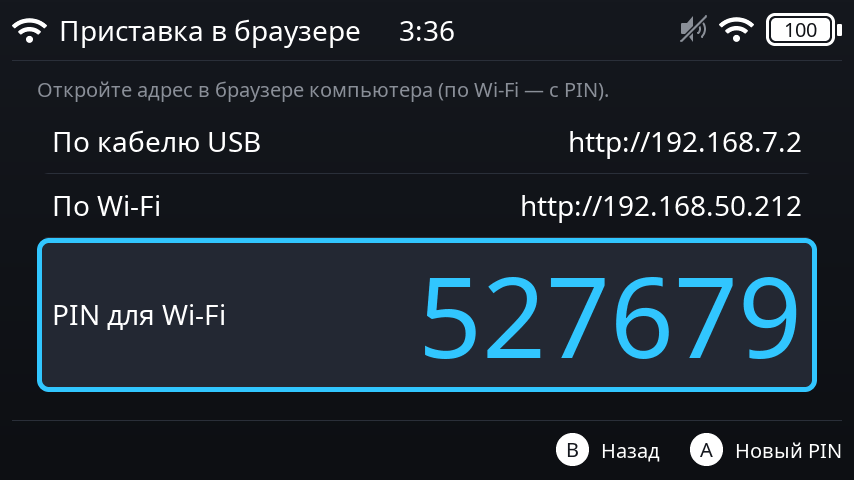
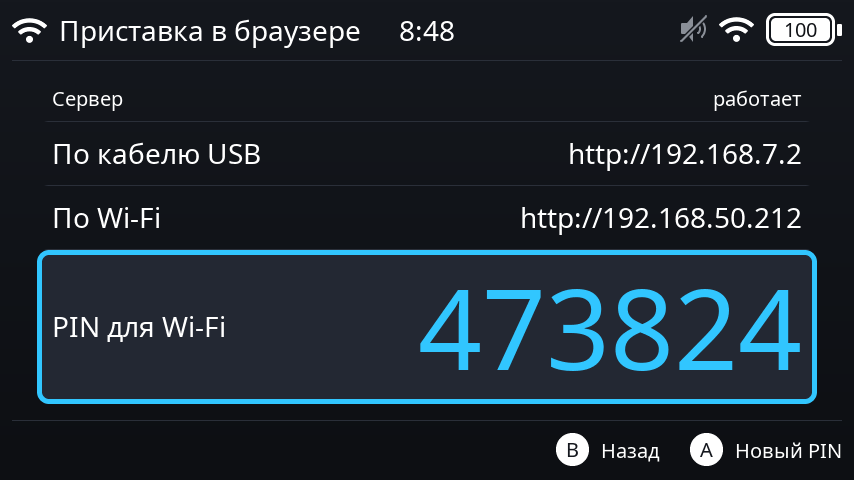
user guide: the device's site setting (Always/Automatic/Off) and the Server row, deleting a game on the site, the Workshop as a page of its own with My edits and the search in Fine, wrong PINs counted per client address; screens

diff --git a/docs/user-guide/chapters/40-web.md b/docs/user-guide/chapters/40-web.md
@@ -44,9 +44,10 @@ http://192.168.7.2
 по кабелю у неё сеть не появляется.
 
 1. На приставке откройте Настройки → Система → «Приставка в браузере».
-2. На экране два адреса: «По кабелю USB» (`http://192.168.7.2`) и «По Wi-Fi»
-   (`http://<адрес>`). Если Wi-Fi не подключён, у строки написано «не подключено».
-   Под ними «PIN для Wi-Fi»: шесть цифр.
+2. На экране сверху строка «Сервер»: «работает» или другое состояние (см.
+   [«Сайт приставки»](#сайт-приставки-когда-он-включён)). Ниже два адреса:
+   «По кабелю USB» (`http://192.168.7.2`) и «По Wi-Fi» (`http://<адрес>`). Если Wi-Fi не
+   подключён, у строки написано «не подключено». Под ними «PIN для Wi-Fi»: шесть цифр.
 3. Откройте адрес «По Wi-Fi» в браузере. Страница «Приставка в браузере по Wi-Fi»
    попросит PIN. Введите шесть цифр с экрана приставки и нажмите «Войти».
 4. Дальше сайт работает как по кабелю.
@@ -54,9 +55,13 @@ http://192.168.7.2
 Что нужно знать о PIN:
 
 - Вход действует сутки, и только в том браузере, где вы ввели PIN. После перезапуска
-  приставки или сервера сайта PIN спросят заново.
-- После пяти неверных попыток подряд минуту ничего не принимается, даже верный PIN.
-  Подождите минуту.
+  приставки или сервера сайта PIN спросят заново. Сервер останавливается сам, когда он
+  не нужен (см. [«Сайт приставки»](#сайт-приставки-когда-он-включён)): тогда входы
+  тоже забываются.
+- Неверные PIN считаются отдельно для каждого компьютера или телефона (по его адресу в
+  сети). После пяти неверных попыток подряд с одного адреса этому адресу минуту ничего не
+  принимается, даже верный PIN. Подождите минуту. Чужие ошибки с другого устройства ваш
+  вход не закрывают.
 - Кнопка A на этом экране («Новый PIN») делает другой PIN. Все прежние входы по Wi-Fi
   закрываются, браузеры спросят новый PIN. Так делайте, если PIN узнал кто-то лишний.
 - По кабелю PIN не нужен.
@@ -67,19 +72,51 @@ http://192.168.7.2
 | «не подключено» у адреса Wi-Fi | адаптера нет или нет сети | подключите Wi-Fi в настройках приставки и вернитесь на экран |
 | страница просит PIN | вы зашли по Wi-Fi | введите PIN с экрана приставки |
 | «Неверный PIN. Осталось попыток: …» | PIN введён неверно | сверьте цифры с экраном |
-| «Слишком много попыток: подождите … с.» | пять ошибок подряд | подождите минуту |
+| «Слишком много попыток: подождите … с.» | пять ошибок подряд с вашего устройства | подождите минуту |
 | «PIN ещё не задан…» | PIN создаётся при первом открытии экрана | откройте на приставке Настройки → Система → «Приставка в браузере» |
 | «Новый PIN: браузеры по Wi-Fi спросят его заново» | вы нажали A | введите новый PIN |
 | «Не удалось записать PIN» | PIN не записался в память приставки | нажмите A ещё раз |
-| страница снова просит PIN | прошли сутки, PIN сменён или сервер перезапущен | введите PIN с экрана |
+| страница снова просит PIN | прошли сутки, PIN сменён или сервер останавливался (нет кабеля и Wi-Fi, режим «Выключен») | введите PIN с экрана |
 
 Адрес Wi-Fi может смениться, например после перезапуска роутера. Он обновляется на
 экране сам; откройте новый адрес.
 
+## Сайт приставки: когда он включён
+
+![Настройки → Система → «Сайт приставки»](img/settings-web-mode.png)
+
+Сайт работает, пока на приставке запущен его сервер. Когда он запущен, решает строка
+Настройки → Система → «Сайт приставки». У неё три значения. Меняйте их кнопкой A.
+
+| Значение | Что значит |
+|---|---|
+| «Автоматически» (по умолчанию) | сервер работает, пока приставка подключена к компьютеру кабелем USB-C или к Wi-Fi |
+| «Всегда» | сервер работает с включения приставки, даже если ни кабеля, ни Wi-Fi нет |
+| «Выключен» | сервера нет, сайт не открывается |
+
+В режиме «Автоматически» сервер запускается сам, как только появляется кабель с
+компьютером или Wi-Fi. Остановится он через 10 секунд после того, как пропали оба. Если
+кабель вынули и тут же вставили, сервер не остановится. Пока с сайта идёт установка игры
+или обновление системы, сервер не останавливается: сначала дождётся конца.
+
+Что видно на экране «Приставка в браузере» в строке «Сервер»:
+
+| Что написано | Что значит | Что делать |
+|---|---|---|
+| «работает» | сайт открывается | ничего |
+| «ждёт подключения» | режим «Автоматически», кабеля и Wi-Fi нет | вставьте кабель или подключите Wi-Fi |
+| «запускается» | режим «Всегда», сервер только стартует | подождите несколько секунд |
+| «выключен в настройках» | стоит «Выключен» | выберите «Автоматически» или «Всегда» |
+
+Когда сервер останавливается (выключили его, или пропали кабель и Wi-Fi), все входы по
+PIN забываются: при следующем запуске браузер спросит PIN заново. Сам PIN остаётся тем
+же, пока вы не нажмёте «Новый PIN».
+
 ## Страницы сайта
 
-Наверху страницы меню: «Состояние», «Установка игр», «Игры и журналы», «Отчёты»,
-«Обновление системы».
+Наверху страницы меню: «Состояние», «Установка игр», «Игры и журналы», «Мастерская»,
+«Сохранения», «Отчёты», «Обновление системы». О «Мастерской» написано в главе
+[«Мастерская»](50-workshop.md), о «Сохранениях» в главе [«Сохранения»](45-saves.md).
 
 ## Состояние
 
@@ -150,6 +187,33 @@ USB-диск». Если карты нет, написано «не вставл
 
 Кнопка «отчёт» в строке игры собирает отчёт об этой игре.
 
+### Удалить игру
+
+![Игры и журналы: кнопка «удалить» в строке игры](img/web-games-delete.png)
+
+В строке игры, которая лежит на карте игр, есть красная кнопка «удалить». У встроенных
+игр (Герои III, Half-Life, DOOM) её нет.
+
+1. Нажмите «удалить» у нужной игры.
+2. Браузер спросит: «Удалить игру «…» с карты игр (/games/…, размер)? Сохранения
+   останутся в памяти приставки и вернутся, если поставить игру снова. Правки Мастерской
+   останутся в /games/recipes.» Подтвердите.
+3. Над таблицей появятся шаги и проценты. Большая игра удаляется до нескольких десятков
+   секунд. Когда всё готово, написано: «Игра «…» удалена с карты». Плитка с главного
+   экрана пропадёт сама.
+
+Удаляется только папка игры на карте. Сохранения в памяти приставки и ваши правки
+Мастерской остаются: если поставить игру снова, всё вернётся. То же можно сделать на
+приставке: Y на плитке → «Удалить игру».
+
+| Что вижу | Что значит | Что делать |
+|---|---|---|
+| «Игра идёт: сначала выйдите из неё.» | игра сейчас запущена | выйдите из игры |
+| «Приставка сейчас ставит, удаляет или исправляет игру: дождитесь, пока это закончится.» | идёт установка, удаление или лечение игры | дождитесь конца и повторите |
+| «Сейчас делается или восстанавливается копия сохранений: дождитесь, пока это закончится.» | идёт копия сохранений | дождитесь конца и повторите |
+| «Уже идёт другое задание (установка, обновление или удаление), дождитесь его.» | сайт занят другим делом | дождитесь конца и повторите |
+| «Игра не удалена: …» или «Игра удалена не до конца: …» | карты нет, она отдана компьютеру как «USB-диск» или во время удаления случилась ошибка | верните карту (B в режиме «USB-диск») и повторите; причина написана в скобках |
+
 ## Отчёты
 
 Нажмите «Сделать отчёт»: через несколько секунд появится «Готово: …», и файл попадёт в
@@ -187,6 +251,7 @@ USB-диск». Если карты нет, написано «не вставл
 | браузер пишет, что сайт недоступен | проверьте, что кабель вставлен в порт USB-C приставки (не в другой), а приставка включена и показывает главный экран; подождите полминуты после подключения |
 | не открывается и всё в порядке | проверьте, что адрес начинается с `http://`, а не `https://` |
 | в адресе всё верно, но на компьютере нет новой сети | у Windows 10 нет драйвера; откройте сайт по Wi-Fi или используйте «USB-диск» |
+| сайт не открывается, на экране «Приставка в браузере» «выключен в настройках» или «ждёт подключения» | сервер не запущен | см. раздел [«Сайт приставки»](#сайт-приставки-когда-он-включён) |
 | две приставки на одном компьютере | у первой `192.168.7.2`, у второй `192.168.8.2` |
 | «Приставка не отвечает. Проверьте кабель USB.» | кабель отошёл или приставка выключилась; вставьте кабель и обновите страницу |
 | при загрузке сообщение об ошибке, файлы не пишутся | карта не вставлена или отдана компьютеру как «USB-диск»; верните её, нажав B на приставке |

diff --git a/docs/user-guide/chapters/50-workshop.md b/docs/user-guide/chapters/50-workshop.md
@@ -10,12 +10,29 @@
 
 ## Как открыть
 
-«Игры и журналы» → в строке игры кнопка «мастерская». У игр, встроенных в систему
-(Герои III, Half-Life, DOOM), кнопка называется «проверка»: у них нет рецепта, который
-можно править.
+В меню сайта выберите «Мастерская».
 
-Наверху страницы название игры и строка: какая это игра, откуда рецепт и есть ли правки
-(«правок нет» или путь к файлу правок).
+![Мастерская: список игр](img/web-workshop.png)
+
+Откроется список всех игр на карте. Для каждой видно:
+
+| Столбец | Что в нём |
+|---|---|
+| Игра | название и папка (`/games/<папка>`); щелчок по строке открывает игру |
+| Рецепт | «Windows» (рецепт `wine.ini`), «своя программа» (настройки `game.ini`) или «встроенная» |
+| Правки | «нет», «есть, N ключей» (сколько настроек вы поменяли), «не читаются» (файл правок повреждён: его надо сбросить) или «—» у встроенных игр |
+| Последний запуск | дата и время |
+| (без названия) | отметка «идёт сейчас», если игра запущена |
+
+Над таблицей поле «Поиск по названию или папке»: впишите часть названия, и останутся
+только подходящие игры. Если ничего нет, написано «Ничего не нашлось.»
+
+У игр, встроенных в систему (Герои III, Half-Life, DOOM), нет рецепта, который можно
+править: у них только вкладка «Проверка».
+
+Нажмите на игру. Наверху страницы ссылка «← Мастерская» (назад к списку), название игры
+и строка: какая это игра, откуда рецепт и есть ли правки («правок нет» или путь к файлу
+правок).
 
 ## Рецепт и правки
 
@@ -48,6 +65,25 @@
 3. Приставка спросит: «Сбросить правки Мастерской для игры … ? Папка … будет удалена:
    игра снова пойдёт по своему рецепту.» Подтвердите кнопкой «Сбросить».
 4. Появится «Правки Мастерской сброшены». Пункт исчезнет, игра пойдёт по рецепту.
+
+### Мои правки
+
+![Панель «Мои правки»](img/web-workshop-edits.png)
+
+Под названием игры панель «Мои правки» перечисляет всё, что вы поменяли. Если ничего,
+написано «правок нет». Каждая строка — одна настройка:
+
+| Что вижу | Что это значит | Что делать |
+|---|---|---|
+| `mode` = 640x480 | вы задали своё значение | щелчок по имени откроет поле; крестик вернёт как в рецепте |
+| «убран из рецепта» | вы отметили «убрать из рецепта» | крестик вернёт настройку |
+| «вернётся как в рецепте» | вы нажали крестик | нажмите «Сохранить» |
+| «(не сохранено)», строка цветная | правка есть только на странице, на карте её нет | нажмите «Сохранить» |
+
+Крестик у строки убирает вашу правку, и игра снова пойдёт по рецепту: как в поле «как в
+рецепте». Файл на карте изменится, когда вы нажмёте «Сохранить». Щелчок по имени
+настройки открывает нужную вкладку («Управление», «Экран» или «Тонкое») и ставит курсор в
+поле. Так не надо искать настройку по страницам.
 
 Рядом с каждым полем видны три значения:
 
@@ -129,11 +165,26 @@
 
 ### Тонкое
 
+![Тонкое: поиск и разделы](img/web-workshop-fine.png)
+
 Остальные настройки: переменные для Wine и эмулятора (`env`), библиотеки (`dlls`),
 значения реестра (`reg`), папки, куда игре разрешено писать (`writable`), сохранения
 (`saves`), язык (`locale`), параметры запуска (`args`) и прочее. У каждого поля есть
 подсказка по-русски. Если в рецепте есть ключи, которых страница не знает, они тоже
 видны как текст.
+
+Настроек много, поэтому вверху вкладки есть помощники:
+
+- **Поиск.** Поле «Поиск по ключу, разделу, подсказке». Впишите слово: останутся только
+  подходящие настройки, нужные блоки раскроются. Пока идёт поиск, «Заготовки env» скрыты.
+- **Разделы.** Настройки собраны в блоки по разделам файла: «Основные ключи (без
+  раздела)», `[keys]` и другие. У блока рядом написано, сколько в нём настроек. Нажмите на
+  название блока, чтобы раскрыть или свернуть. Блоки, где что-то задано в рецепте или
+  вами, раскрыты сами.
+- **«только заданные (в рецепте или правках)».** Галочка прячет всё, что не задано ни в
+  рецепте, ни вами. Остаётся то, что реально влияет на игру.
+- **«Прочее (ключей нет в схеме)».** Последний блок: ключи, которых страница не знает.
+  Они видны как текст (см. выше).
 
 Под таблицей **«Заготовки env»**: готовые наборы переменных, которые уже помогли
 другим играм (например, настройки Box64 или кэша Wine). «добавить» вписывает заготовку
@@ -183,5 +234,5 @@
 ## Игры со своим движком
 
 У Героев III, Half-Life и DOOM нет рецепта Windows. Для них есть только вкладка
-«Проверка» (кнопка в списке называется «проверка»). У остальных игр на своих программах
+«Проверка» (в списке Мастерской у них «встроенная», а правки «—»). У остальных игр на своих программах
 (настройки в `game.ini`) вкладки «Тонкое», «Проверка» и «Экспорт».

diff --git a/docs/user-guide/chapters/00-preface.md b/docs/user-guide/chapters/00-preface.md
@@ -14,9 +14,9 @@ Advance с прошивкой OdroidLinux. Собирать прошивку и 
 | [Игры: опции и удаление](10-games.md) | предел кадров; сколько места занимает игра; удаление игры и её сохранений |
 | [Если игра не работает](20-problems.md) | экран ошибки и какие ошибки приставка узнаёт; отчёт об ошибке: как сохранить и забрать на компьютер; журнал запуска: где он лежит и что в нём искать |
 | [Обновление системы](30-update.md) | где взять файл обновления, как поставить, как приставка возвращается к прежней версии и как перейти на запасную (GO Ultra) |
-| [Приставка в браузере](40-web.md) | как открыть приставку в браузере по кабелю USB-C или по Wi-Fi (с PIN): установить игру, прочитать журнал, забрать отчёт, поставить обновление без «USB-диска» |
+| [Приставка в браузере](40-web.md) | как открыть приставку в браузере по кабелю USB-C или по Wi-Fi (с PIN): установить игру, прочитать журнал, забрать отчёт, поставить обновление без «USB-диска», удалить игру; когда сайт включён («Сайт приставки») |
 | [Сохранения: копия и перенос](45-saves.md) | что входит в копию игры и всей приставки; страница «Сохранения» в браузере; автокопия после игры и её выключатель; восстановление на экране опций игры; перенос на другую приставку |
-| [Мастерская: настройка любой игры](50-workshop.md) | правки поверх рецепта игры в браузере: кнопки, экран, тонкие настройки, проверка с экраном и геймпадом, экспорт рецепта; сброс правок на экране опций игры |
+| [Мастерская: настройка любой игры](50-workshop.md) | страница со списком игр; правки поверх рецепта игры в браузере: панель «Мои правки», кнопки, экран, тонкие настройки, проверка с экраном и геймпадом, экспорт рецепта; сброс правок на экране опций игры |
 
 ## Слова, которые встретятся
 
